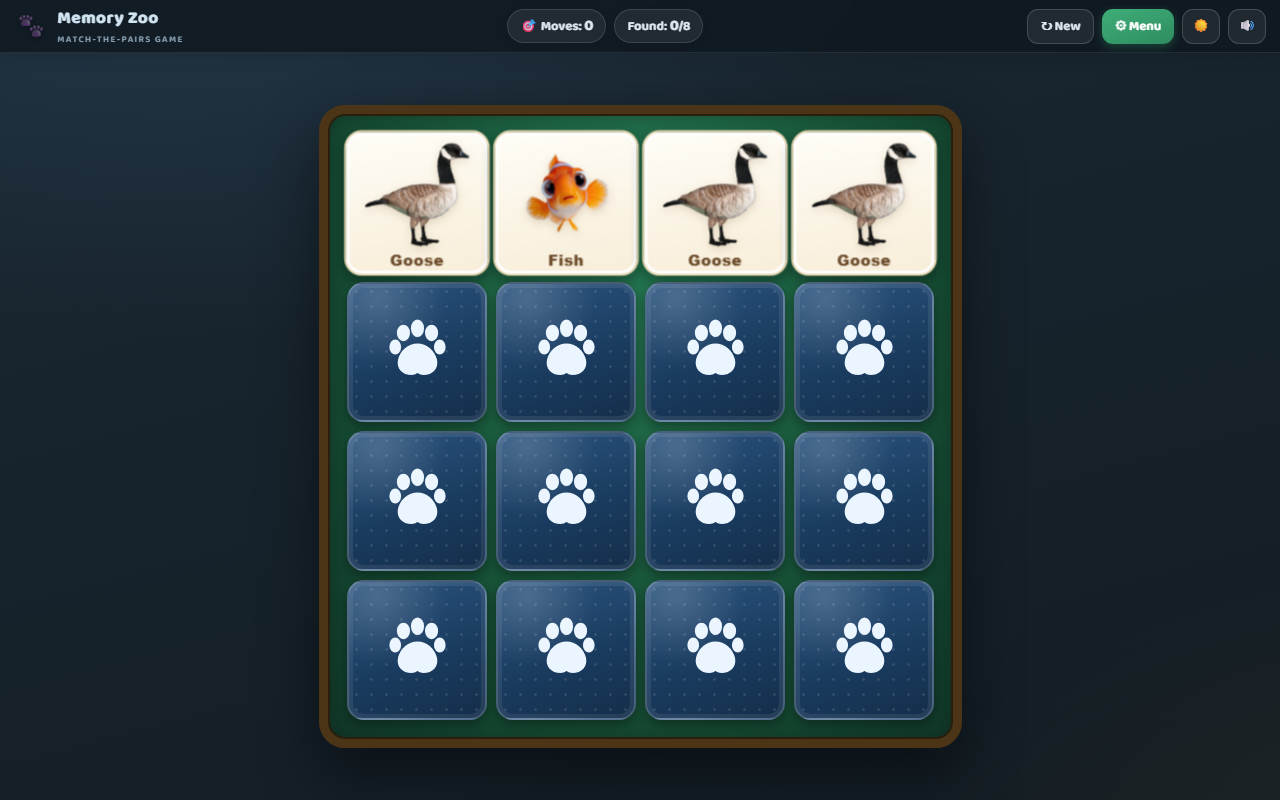
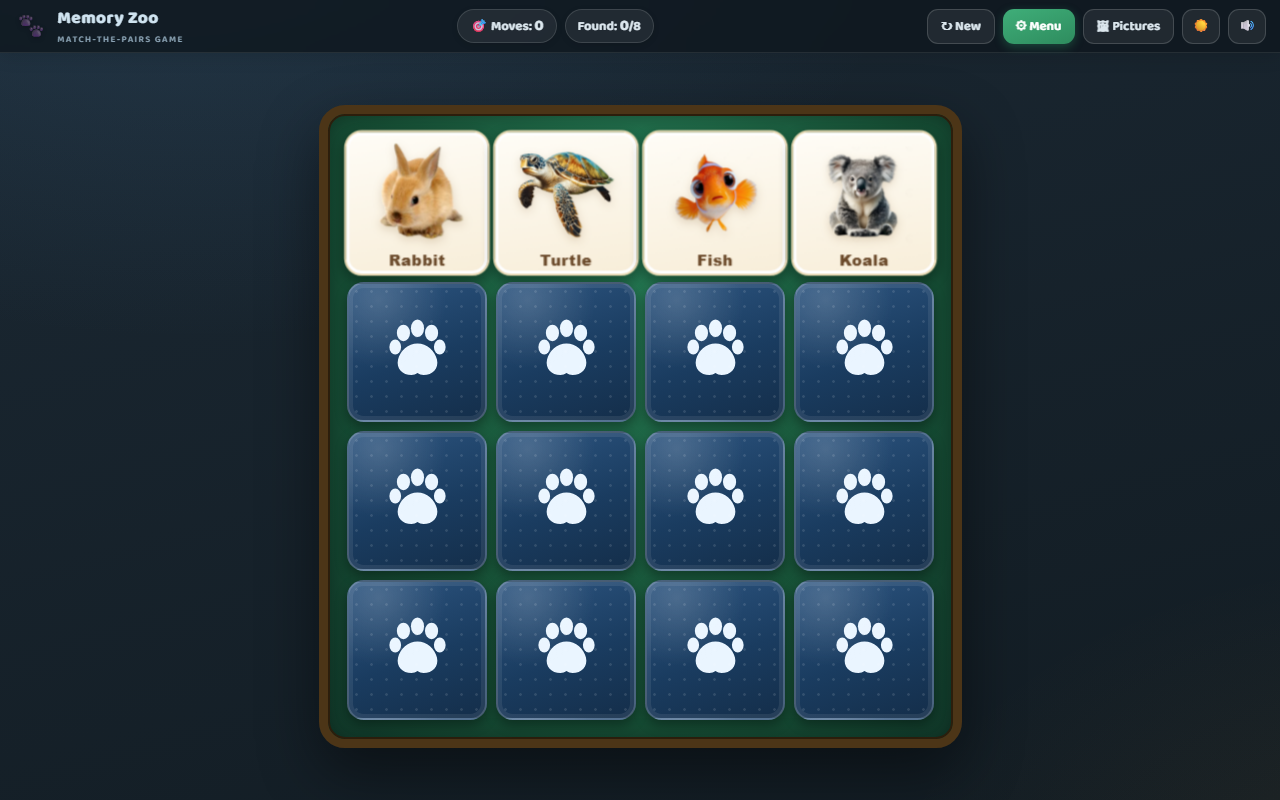
Pictures picker: top-bar button opens a window of all pictures; click to cross out (at least 10 must stay available), crossed-out ones never deal into games; persisted setting + ?block= / ?qa=pics QA hooks

diff --git a/game.js b/game.js
@@ -47,9 +47,13 @@ const IMG_DIR = 'TileSprites/animals/';
 // localized label for a sprite, per the current language setting
 function spName(sp) { return (S && S.lang === 'pl' && sp.pl) ? sp.pl : sp.name; }
 
+// pictures not crossed out in the Pictures window — the only ones games may use
+function activeSprites() { return SPRITES.filter((sp) => S.blocked.indexOf(sp.id) < 0); }
+
 // ------------------------------------------------ limits ----
 const MIN_TOTAL = 10, MAX_TOTAL = 62;       // even numbers only
 const MIN_IMAGES = 4, MAX_IMAGES = 10;      // up to 10 of the 31 available animals per game
+const MIN_ACTIVE = 10;                      // pictures may be crossed out, but at least this many must stay
 const MIN_P = 50, MAX_P = 95;              // computer remember-chance, %
 const MIN_CAP = 3, MAX_CAP = 7;            // computer memory size, cards
 const FLIP_MS = 560, SHOW_MS = 800, PAIR_WAIT = FLIP_MS + 140;
@@ -59,7 +63,7 @@ const LS_SCORES   = 'memoryzoo.scores.v2';   // solo best per "total x images" c
 
 const BACKS = ['blue', 'burgundy', 'brown', 'forest', 'plum', 'slate'];
 const LANGS = ['en', 'pl'];
-const DEFAULTS = { mode: 'solo', total: 16, images: 6, p: 70, cap: 5, mute: false, theme: 'dark', backColor: 'blue', lang: 'en' };
+const DEFAULTS = { mode: 'solo', total: 16, images: 6, p: 70, cap: 5, mute: false, theme: 'dark', backColor: 'blue', lang: 'en', blocked: [] };
 
 // ------------------------------------------------ helpers ---
 const $ = (s) => document.querySelector(s);
@@ -160,10 +164,13 @@ function sanitizeSettings(raw) {
     backColor: ['blue', 'burgundy', 'brown', 'forest', 'plum', 'slate'].indexOf(raw.backColor) >= 0
       ? raw.backColor : 'blue',
     lang: raw.lang === 'pl' ? 'pl' : 'en',
+    blocked: Array.isArray(raw.blocked)
+      ? [...new Set(raw.blocked.filter((id) => SPRITES.some((sp) => sp.id === id)))].slice(0, SPRITES.length - MIN_ACTIVE)
+      : [],
   };
   if (s.total % 2) s.total -= 1;
   s.total = Math.max(MIN_TOTAL, s.total);
-  s.images = Math.min(s.images, Math.floor(s.total / 2), MAX_IMAGES);
+  s.images = Math.min(s.images, Math.floor(s.total / 2), SPRITES.length - s.blocked.length, MAX_IMAGES);
   s.images = Math.max(MIN_IMAGES, s.images);
   return s;
 }
@@ -194,8 +201,8 @@ function startGame() {
   const gen = ++GAME_GEN;
   const { total, images } = S;
 
-  // choose pictures, then distribute pairs as evenly as possible
-  const chosen = shuffle(SPRITES.slice()).slice(0, images);
+  // choose pictures from the ones not crossed out, then distribute pairs as evenly as possible
+  const chosen = shuffle(activeSprites()).slice(0, images);
   const pairsTotal = total / 2;
   const base = Math.floor(pairsTotal / images);
   const extra = pairsTotal % images;      // first `extra` images get one more pair
@@ -555,6 +562,7 @@ function syncMenu() {
   rngI.value = String(S.images);
   $('#valTotal').textContent = S.total + ' cards';
   $('#valImages').textContent = S.images + ' pictures';
+  $('#imgHint').textContent = 'Pick 4–10 of the ' + (SPRITES.length - S.blocked.length) + ' available animal pictures.';
   $('#rngP').value = String(S.p);
   $('#rngCap').value = String(S.cap);
   $('#valP').textContent = S.p + '%';
@@ -586,6 +594,61 @@ $('#btnMenu').addEventListener('click', () => {
   menuEl.classList.remove('hidden');
 });
 $('#btnCloseMenu').addEventListener('click', () => { sfx.ui(); menuEl.classList.add('hidden'); });
+
+// --------------------------------------------- pictures picker ---
+// cross pictures out of the game pool; at least MIN_ACTIVE must stay available
+const picEl = $('#picOverlay');
+function updatePicCount(warn) {
+  const active = SPRITES.length - S.blocked.length;
+  const el = $('#picCount');
+  el.textContent = S.blocked.length + ' crossed out · ' + active + ' available (at least ' + MIN_ACTIVE + ' required)';
+  el.classList.toggle('warn', !!warn);
+}
+function renderPicPicker() {
+  $('#picGrid').innerHTML = SPRITES.map((sp) => {
+    const off = S.blocked.indexOf(sp.id) >= 0;
+    return '<button type="button" class="picTile' + (off ? ' off' : '') + '" data-id="' + sp.id + '"' +
+      ' aria-pressed="' + off + '" title="' + spName(sp) + '">' +
+      '<img src="' + IMG_DIR + sp.id + '.png" alt="' + spName(sp) + '"/>' +
+      '<span class="picNm">' + spName(sp) + '</span>' +
+      '<span class="picX" aria-hidden="true">✕</span></button>';
+  }).join('');
+  updatePicCount();
+}
+$('#btnPictures').addEventListener('click', () => {
+  sfx.ui();
+  resultsEl.classList.add('hidden');   // same courtesy as the settings menu
+  renderPicPicker();
+  picEl.classList.remove('hidden');
+});
+$('#btnPicClose').addEventListener('click', () => { sfx.ui(); picEl.classList.add('hidden'); });
+$('#btnPicAll').addEventListener('click', () => {
+  S.blocked = [];
+  saveSettings(); renderPicPicker(); sfx.ui();
+});
+$('#picGrid').addEventListener('click', (e) => {
+  const b = e.target.closest('.picTile');
+  if (!b) return;
+  const id = b.dataset.id;
+  const at = S.blocked.indexOf(id);
+  if (at >= 0) {
+    S.blocked.splice(at, 1);
+  } else {
+    if (SPRITES.length - S.blocked.length <= MIN_ACTIVE) {
+      // the last 10 are protected: refuse, flash the counter, no sound-error spam
+      updatePicCount(true);
+      setTimeout(() => updatePicCount(false), 800);
+      return;
+    }
+    S.blocked.push(id);
+  }
+  const off = S.blocked.indexOf(id) >= 0;
+  b.classList.toggle('off', off);
+  b.setAttribute('aria-pressed', off);
+  saveSettings();
+  updatePicCount();
+  sfx.ui();
+});
 
 $('#modeSeg').addEventListener('click', (e) => {
   const b = e.target.closest('button');
@@ -713,6 +776,7 @@ $('#backBtns').addEventListener('click', (e) => {
 document.addEventListener('keydown', (e) => {
   if (e.key === 'Escape') {
     if (!resultsEl.classList.contains('hidden')) resultsEl.classList.add('hidden');
+    else if (!picEl.classList.contains('hidden')) picEl.classList.add('hidden');
     else if (!menuEl.classList.contains('hidden')) menuEl.classList.add('hidden');
   }
 });
@@ -725,10 +789,12 @@ updateSoundBtn();
 S = sanitizeSettings(S);
 
 // debug view params (used for screenshots/testing, not part of the saved settings):
-// ?qa=menu opens the menu, ?qa=faces flips some cards face-up, ?qa=light forces the
-// light theme, ?back=burgundy|brown|forest|plum|slate previews a back color,
-// ?mode=vs shows the difficulty section, ?total=62 forces a board size,
-// ?images=10 picks that many pictures, ?lang=pl shows Polish names
+// ?qa=menu opens the menu, ?qa=pics opens the pictures picker,
+// ?qa=faces flips some cards face-up, ?qa=all flips every card,
+// ?qa=light forces the light theme, ?back=burgundy|brown|forest|plum|slate
+// previews a back color, ?mode=vs shows the difficulty section, ?total=62
+// forces a board size, ?images=10 picks that many pictures, ?lang=pl shows
+// Polish names, ?block=Panda01,Wolf01 crosses pictures out
 // (all kept in range by sanitizeSettings)
 try {
   const qp = new URLSearchParams(location.search);
@@ -743,6 +809,8 @@ try {
   if (Number.isFinite(tq)) S.total = tq;
   const iq = parseInt(qp.get('images'), 10);
   if (Number.isFinite(iq)) S.images = iq;
+  const blq = qp.get('block');
+  if (blq) S.blocked = String(blq).split(',').map((x) => x.trim()).filter(Boolean);
   S = sanitizeSettings(S);
 } catch (e) {}
 
@@ -764,6 +832,7 @@ try {
     G.cells.forEach((c) => c.el.classList.add('up'));
   }
   if (qa === 'menu') { setTimeout(() => { syncMenu(); menuEl.classList.remove('hidden'); }, 700); }
+  if (qa === 'pics') { setTimeout(() => { renderPicPicker(); picEl.classList.remove('hidden'); }, 700); }
 } catch (e) {}
 
 })();

diff --git a/test_headless.js b/test_headless.js
@@ -29,13 +29,15 @@ class El {
 }
 
 const byId = {};
-const IDS = ['board', 'boardWrap', 'status', 'toast', 'menu', 'results', 'rngTotal', 'rngImages',
+const IDS = ['board', 'boardWrap', 'status', 'toast', 'menu', 'results', 'rngTotal', 'rngImages', 'imgHint',
   'rngP', 'rngCap', 'valTotal', 'valImages', 'valP', 'valCap', 'diffBox', 'bestBox', 'modeHint',
+  'picOverlay', 'picGrid', 'picCount', 'btnPictures', 'btnPicAll', 'btnPicClose',
   'resTitle', 'resBody', 'modeSeg', 'presetBtns', 'backBtns', 'langSeg', 'btnMenu', 'btnCloseMenu', 'btnStart',
   'btnRestart', 'btnPlayAgain', 'btnResSettings', 'btnSound', 'btnTheme'];
 IDS.forEach((id) => { byId[id] = new El('div'); byId[id].id = id; });
 byId.menu.classList.add('hidden');
 byId.results.classList.add('hidden');
+byId.picOverlay.classList.add('hidden');
 
 const modeBtns = [
   { dataset: { mode: 'solo' }, classList: new CL() },
@@ -192,6 +194,43 @@ async function playOne(label) {
   console.log('language switch: all', labels.length, 'cards labeled:', [...new Set(labels)].join(', '));
   byId.langSeg.listeners['click'][0]({ target: { closest: () => langBtns[0] } });
   await wait(50);
+
+  // Pictures picker: open it, cross out everything except 10, the last 10 are
+  // protected from crossing out, a restarted board uses ONLY the kept pictures,
+  // "Show all" restores the full pool.
+  const ALL_IDS = ['Chicken01', 'Frog01', 'Goat01', 'Goose01', 'Guinea01', 'Hamster01', 'Kitten01',
+    'LionCub01', 'PolarCub01', 'Puppy01', 'Rabbit01', 'Camel01', 'Elephant01', 'Fish01', 'Kangaroo01',
+    'Koala01', 'Panda01', 'Parrot01', 'Piglet01', 'Shark01', 'TigerCub01', 'Toucan01', 'Turtle01',
+    'Wolf01', 'Horse01', 'Seal01', 'Penguin01', 'Gecko01', 'Chameleon01', 'Rat01', 'GreenSnake01'];
+  const clickTile = (id) => byId.picGrid.listeners['click'][0]({
+    target: { closest: (sel) => (sel === '.picTile' ? { dataset: { id }, classList: new CL(), setAttribute() {} } : null) },
+  });
+  byId.btnPictures.listeners['click'][0]();
+  if (byId.picOverlay.classList.contains('hidden')) { console.error('FAIL: Pictures button did not open the picker'); process.exit(1); }
+  if (!byId.picGrid._html.includes('data-id="GreenSnake01"')) { console.error('FAIL: picker grid not populated'); process.exit(1); }
+  const KEEP = new Set(['Chicken01', 'Frog01', 'Goat01', 'Goose01', 'Hamster01', 'Kitten01', 'Puppy01', 'Rat01', 'Seal01', 'Wolf01']);
+  ALL_IDS.filter((id) => !KEEP.has(id)).forEach(clickTile);   // 21 cross-outs -> exactly 10 stay
+  clickTile('Wolf01');                                        // 22nd must be refused
+  let blockedNow = JSON.parse(store['memoryzoo.settings.v1']).blocked || [];
+  if (blockedNow.length !== ALL_IDS.length - KEEP.size) { console.error('FAIL: unexpected blocked count', blockedNow.length); process.exit(1); }
+  if (blockedNow.includes('Wolf01')) { console.error('FAIL: last-10 protection failed'); process.exit(1); }
+  console.log('pictures picker:', blockedNow.length, 'crossed out, last 10 protected OK');
+  byId.btnRestart.listeners['click'][0]();
+  await wait(50);
+  const usedIds = new Set();
+  for (const c of byId.board.children.filter((c) => c.tag === 'button')) {
+    const m = /animals\/([A-Za-z0-9]+)\.png/.exec(c.innerHTML);
+    if (!m) { console.error('FAIL: card without sprite image'); process.exit(1); }
+    usedIds.add(m[1]);
+  }
+  for (const id of usedIds) if (!KEEP.has(id)) { console.error('FAIL: crossed-out picture used on board:', id); process.exit(1); }
+  console.log('restarted board uses only kept pictures:', [...usedIds].sort().join(', '));
+  byId.btnPicAll.listeners['click'][0]();
+  blockedNow = JSON.parse(store['memoryzoo.settings.v1']).blocked || [];
+  if (blockedNow.length) { console.error('FAIL: Show all did not clear blocks'); process.exit(1); }
+  byId.btnPicClose.listeners['click'][0]();
+  if (!byId.picOverlay.classList.contains('hidden')) { console.error('FAIL: Close did not hide picker'); process.exit(1); }
+  console.log('show all + close OK');
 
   const isSolo = (settings.mode || 'solo') === 'solo';
   const raw = store['memoryzoo.scores.v2'];

diff --git a/index.html b/index.html
@@ -27,6 +27,7 @@
   <div class="actions">
     <button class="btn ghost" id="btnRestart" title="Start a new game">↻ New</button>
     <button class="btn primary" id="btnMenu" title="Open settings menu">⚙ Menu</button>
+    <button class="btn ghost" id="btnPictures" title="Choose which pictures may appear">🖼 Pictures</button>
     <button class="btn ghost iconbtn" id="btnTheme" title="Switch theme">☀</button>
     <button class="btn ghost iconbtn" id="btnSound" title="Toggle sound">🔊</button>
   </div>
@@ -61,7 +62,7 @@
     <div class="field">
       <label for="rngImages">Pictures used: <b id="valImages"></b></label>
       <input type="range" id="rngImages" min="4" max="10" step="1"/>
-      <p class="hint">Pick 4–10 of the 31 animal pictures.</p>
+      <p class="hint" id="imgHint">Pick 4–10 of the 31 animal pictures.</p>
     </div>
 
     <div class="field">
@@ -123,6 +124,21 @@
     <div class="row">
       <button class="btn primary big" id="btnPlayAgain">▶ Play again</button>
       <button class="btn ghost big" id="btnResSettings">⚙ Settings</button>
+    </div>
+  </div>
+</div>
+
+<!-- ================= pictures picker ================= -->
+<div id="picOverlay" class="overlay hidden" role="dialog" aria-modal="true" aria-labelledby="picTitle">
+  <div class="dialog">
+    <h2 id="picTitle">Pictures</h2>
+    <p class="hint">Click a picture to cross it out — crossed-out animals never appear on the board.
+      At least 10 pictures must stay available.</p>
+    <p id="picCount" class="picCount" aria-live="polite"></p>
+    <div id="picGrid"></div>
+    <div class="row">
+      <button class="btn ghost big" id="btnPicAll">Show all</button>
+      <button class="btn primary big" id="btnPicClose">Close</button>
     </div>
   </div>
 </div>

diff --git a/style.css b/style.css
@@ -492,6 +492,45 @@ html[data-theme="dark"] .sw-blue{ background: linear-gradient(160deg, #2d5580, #
 }
 .bests .bestrow b{ color: var(--bestrow-ink); }
 
+/* ---------- pictures picker ---------- */
+.picCount{ font-size: 13px; font-weight: 700; color: var(--ink-dim); margin: 6px 0 10px; }
+.picCount.warn{ color: #ff5d5d; }
+#picGrid{
+  display: grid;
+  grid-template-columns: repeat(auto-fill, minmax(96px, 1fr));
+  gap: 8px;
+  max-height: 52vh;
+  overflow-y: auto;
+  padding: 2px;
+}
+.picTile{
+  position: relative;
+  display: flex;
+  flex-direction: column;
+  align-items: center;
+  gap: 4px;
+  padding: 8px 4px 6px;
+  border-radius: 10px;
+  border: 1px solid var(--rowline);
+  background: rgba(255,255,255,.04);
+  cursor: pointer;
+  transition: transform .12s ease, opacity .15s ease;
+}
+html[data-theme="light"] .picTile{ background: #ffffff; }
+.picTile:hover{ transform: translateY(-2px); }
+.picTile img{ width: 62px; height: 62px; object-fit: contain; }
+.picNm{ font-size: 11.5px; font-weight: 700; color: var(--ink); }
+.picTile .picX{
+  position: absolute; top: 4px; right: 6px;
+  font-size: 15px; font-weight: 800; color: #ff5d5d;
+  opacity: 0; transform: scale(.6);
+  transition: opacity .15s ease, transform .15s ease;
+}
+.picTile.off{ opacity: .55; }
+.picTile.off img{ filter: grayscale(1); }
+.picTile.off .picNm{ text-decoration: line-through; color: var(--ink-dim); }
+.picTile.off .picX{ opacity: 1; transform: scale(1); }
+
 .row{ display: flex; gap: 10px; margin-top: 18px; flex-wrap: wrap; justify-content: center; }
 
 /* results specifics */

diff --git a/README.md b/README.md
@@ -44,6 +44,10 @@ bar switches between the dark and light palettes (choice is remembered).
 ## Settings
 - **Total cards:** even numbers, 10–62.
 - **Pictures used:** 4–10, drawn from the 31 animal sprites in `TileSprites/animals/`.
+- **Choose pictures:** the 🖼 **Pictures** button in the top bar opens every picture;
+  click one to cross it out — crossed-out animals are never dealt into games.
+  At least 10 pictures must stay available (the last 10 refuse to be crossed
+  out). The choice is remembered; "Show all" restores everything.
 - **Names on cards:** English or Polski — a language segment in the menu;
   every card carries both labels (`name` / `pl` in `SPRITES`), the switch
   updates cards on the board immediately and is remembered in settings.
@@ -74,6 +78,6 @@ bar switches between the dark and light palettes (choice is remembered).
 
 Extras: sound on/off toggle (synthesized, no audio files), dark/light theme
 toggle, Esc closes dialogs, responsive layout for smaller screens,
-`index.html?qa=menu` / `?qa=faces` / `?qa=all` / `?qa=light` /
-`?back=burgundy` / `?mode=vs` / `?total=62` / `?images=10` / `?lang=pl`
-debug views used for the screenshots above.
+`index.html?qa=menu` / `?qa=pics` / `?qa=faces` / `?qa=all` / `?qa=light` /
+`?back=burgundy` / `?mode=vs` / `?total=62` / `?images=10` / `?lang=pl` /
+`?block=Panda01,Wolf01` debug views used for the screenshots above.
